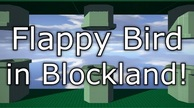
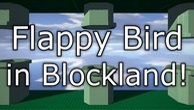
Site: Fixed project card images, added project

diff --git a/index.html b/index.html
@@ -18,7 +18,10 @@
 	body {
 		font-family: "Arial", Helvetica, sans-serif;
 		background-color: #B8B8B9;
-		text-align: center
+		
+		max-width:1000px;
+		text-align:center;
+		margin:auto;
 	}
 
 	a {
@@ -45,7 +48,7 @@
 		display: inline-table;
 		
 		width: 180px;
-		height: 100px;
+		height: 96px;
 		padding: 7px;
 		margin: 3px;
 		border-radius: 10px;
@@ -80,12 +83,17 @@
 	
 	<h2>Blockland Projects</h2>
 	<p>
+	
 	<a target="_blank" class="projectCard" href=https://drive.google.com/folderview?id=0B6FgyBz5kxXdSW5RVFFYcEJNWXM&usp=sharing#list>Lake's Blockland Files (Google Drive)</a>
 	<br class="none">
+	
 	<a target="_blank" class="projectCard" href=https://github.com/LakeYS/blockland-crumbling-arena-new/wiki>Crumbling Arena Game-Mode (GitHub)</a>
 	<br class="none">
-	<a target="_blank" class="projectCard" style="background: #E6E6E6 url(p_flappy.jpg)" href=https://www.youtube.com/watch?v=uRN587hi4w4>(Video)<span class="none"> Flappy Bird in Blockland</span></a>
 	
+	<a target="_blank" class="projectCard" style="background: #E6E6E6 url(p_flappy.jpg)" href=https://www.youtube.com/watch?v=uRN587hi4w4>(Video)<span class="none"> Flappy Bird in Blockland</span></a>
+	<br class="none">
+	
+	<a target="_blank" class="projectCard" style="background: #E6E6E6 url(p_rmod.jpg)" href=https://www.youtube.com/watch?v=sAWx5RI9jkc>(Video)<br>°д°</a>
 	
 	</p>
 </body>
